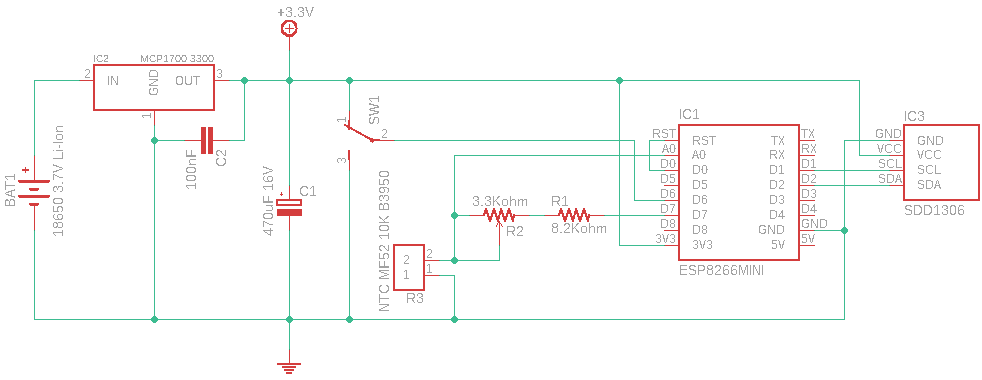
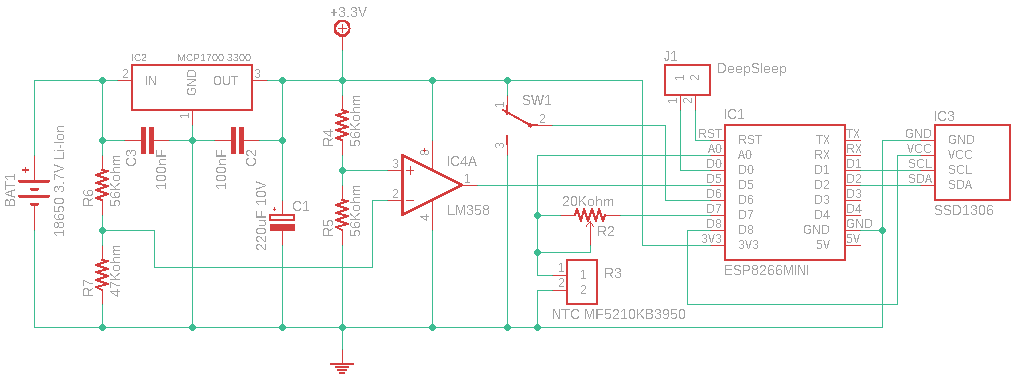
General improvements and fixes in the code; low-battery level notification added; documentation improved

diff --git a/TemperatureMonitor-Sample.h b/TemperatureMonitor-Sample.h
@@ -2,7 +2,7 @@
  * @package Temperature Monitor
  * Configuration sample
  * @author WizLab.it
- * @version 20240113.006
+ * @version 20240125.012
  */
 
 
@@ -10,13 +10,10 @@
  * Generic behaviour
  */
 
-//If debug is active, the sensor name is set to DEBUG_1 or DEBUG_2, and logs are sent to the Serial Monitor
+//If debug is active, logs are sent to the Serial Monitor and the Sensor ID is set using the debug names
 #define DEBUG true
 
-//Use built-in led to inform about events:
-// 2 blinks: connection to WiFi network faled
-// 5 blinks: connection to WiFi network succeeded
-// 10 blinks: sersor data posted online successfully
+//Use built-in led to identify some events
 #define LED_ACTIVE true
 
 //Use OLED display
@@ -25,23 +22,34 @@
 //Seconds between samples
 #define SLEEP_DURATION 10
 
-//If true, go to deep sleep (extremely low current) between samples
+//If true, goes to deep sleep (extremely low current) between samples
 //To use deep sleep, D0 and RST pins on ESP8266 must be connected
 #define USE_DEEP_SLEEP false
 
 //If true, post the sensor data online
 #define POST_TEMPERATURE_ONLINE false
 
+//Sensor data online post endpoint
+#define HTTPS_TEMP_ENDPOINT "https://www.example.com/temperaturesubmit.php"
+
 
 /*
- * Sensors
+ * Sensor
  */
+
+//NTC Sensor
+#define SENSOR_TEMP_BETA 3950.0
+#define SENSOR_TEMP_NOMINAL_OHM 10000.0
+#define SENSOR_TEMP_NOMINAL_TEMP 25.0
+#define SENSOR_TEMP_SERIES_OHM 10000.0
+
+//Device ID
 #if(DEBUG == true)
-  #define SENSOR_NAME_HIGH "TEMP_DEBUG_1"
-  #define SENSOR_NAME_LOW "TEMP_DEBUG_2"
+  #define SENSOR_ID_HIGH "TEMP_DEBUG_1"
+  #define SENSOR_ID_LOW "TEMP_DEBUG_2"
 #else
-  #define SENSOR_NAME_HIGH "TEMP_SENSOR_1"
-  #define SENSOR_NAME_LOW "TEMP_SENSOR_2"
+  #define SENSOR_ID_HIGH "TEMP_SENSOR_1"
+  #define SENSOR_ID_LOW "TEMP_SENSOR_2"
 #endif
 
 
@@ -49,22 +57,14 @@
  * WiFi networks
  */
 
-//Number of available WiFi networks: update the value when adding or removing networks in the WIFI_ACCESSPOINTS array
+//Number of available WiFi networks: update the value when adding or removing networks from the WIFI_ACCESSPOINTS array
 #define WIFI_ACCESSPOINTS_COUNT 2
 
 //Known WiFi networks
-const char *WIFI_ACCESSPOINTS[][2] = {
+const char PROGMEM *WIFI_ACCESSPOINTS[][2] = {
   { "SSID Network 1", "foobar" }, //WiFi network #1
   { "SSID Network 2", "barfoo" }, //WiFi network #2
 };
 
 //Timeout (in seconds) before to give up when trying to connect to a WiFi network
 #define WIFI_CONNECTION_TIMEOUT 15
-
-
-/*
- * HTTPS
- */
-
-//Sensor data online post endpoint
-#define HTTPS_TEMP_ENDPOINT "https://www.example.com/temperaturesubmit.php"

diff --git a/server/temperaturesubmit.php b/server/temperaturesubmit.php
@@ -2,7 +2,7 @@
 /**
  * @package Temperature Monitor
  * @author WizLab.it
- * @version 20240114.005
+ * @version 20240123.008
  */
 
 
@@ -22,7 +22,7 @@ $payloadParsed = json_decode($payload);
 if(!$payloadParsed || !is_object($payloadParsed) || !$payloadParsed->sensorId || !$payloadParsed->temperature || !is_object($payloadParsed->temperature) || !is_numeric($payloadParsed->temperature->celsius)) die("OK");
 
 //Save data
-$DBL->query("INSERT INTO temperatures SET date=NOW(), sensorId='" . dbEsc($payloadParsed->sensorId) . "', temperature='" . dbEsc($payloadParsed->temperature->celsius) . "', rawPayload='" . dbEsc($payload) . "'");
+$DBL->query("INSERT INTO temperatures SET date=NOW(), sensorId='" . dbEsc($payloadParsed->sensorId) . "', temperature='" . dbEsc($payloadParsed->temperature->celsius) . "', lowBattery='" . (($payloadParsed->lowbattery) ? "1" : "0") . "', rawPayload='" . dbEsc($payload) . "'");
 
 //Check if to send alert
 if(SENSORS[$payloadParsed->sensorId]["alert"]) {

diff --git a/server/index.php b/server/index.php
@@ -2,7 +2,7 @@
 /**
  * @package Temperature Monitor
  * @author WizLab.it
- * @version 20240114.017
+ * @version 20240123.018
  */
 
 
@@ -36,7 +36,8 @@ echo("<html>
 /*--- Builf charts --------------------------------------------------------*/
 $sensorsLabel = $sensorColor = $sensorValuesCounter = [];
 foreach(SENSORS as $sId=>$sParams) {
-  $sensorsLabel[] = "'" . $sParams["name"] . "'";
+  $isLowBattery = $DBL->query("SELECT lowBattery FROM temperatures WHERE sensorId='" . dbEsc($sId) . "' ORDER BY date DESC LIMIT 1")->fetch_object();
+  $sensorsLabel[] = "'" . $sParams["name"] . (($isLowBattery->lowBattery) ? " (low battery)" : "") . "'";
   $sensorsColor[] = "'#" . $sParams["color"] . "'";
   $sensorValuesCounter[$sId] = 0;
 }

diff --git a/server/config-sample.php b/server/config-sample.php
@@ -3,7 +3,21 @@
  * @package Temperature Monitor
  * Configuration sample
  * @author WizLab.it
- * @version 20240114.002
+ * @version 20240126.003
+ */
+
+/*
+ * Database structure
+ *
+ * CREATE TABLE `temperatures` (
+ *   `id` int(10) UNSIGNED AUTO_INCREMENT PRIMARY KEY NOT NULL,
+ *   `date` datetime NOT NULL,
+ *   `sensorId` varchar(30) NOT NULL,
+ *   `temperature` decimal(5,2) NOT NULL,
+ *   `lowBattery` tinyint(1) NOT NULL,
+ *   `rawPayload` text NOT NULL
+ * ) ENGINE=InnoDB DEFAULT CHARSET=utf8mb4;
+ *
  */
 
 //Database configuration

diff --git a/README.md b/README.md
@@ -1,49 +1,112 @@
 # Temperature Monitor
 
-This device can be used to monitor the environmental temperature, and optionally post the values online for remote monitoring or show them on a OLED display in real time.
+The device can be used to monitor the environmental temperature, and optionally post the values online for remote monitoring and/or show them on a OLED display in real time.
 
-The circuit is based on the ESP8266 board (Arduino like), that handles the temperature sampling (A/D conversion), network communication via WiFi, and drives the OLED display.
+The circuit is based on an NTC temperature sensor and the ESP8266 board (Arduino like), that handles the temperature sampling (via A/D conversion), network communication via WiFi, and drives the OLED display.
 
-Server side code (PHP) is also provided, to receive the data from the board and show it in a chart.
-
-The device supports:
-
-- multiple WiFi networks: it loops among them trying to connect to any of them
-
-- a trimmer is used for fine tuning
-
-- two sensor IDs supported (selected via a switch)
-
-- optional alerts can be sent via Telegram when the temperature rises above or falls below the allowed range (when online data post is enabled)
+The server-side code (PHP) is also provided, to receive the data from the board and show it in a chart (via Google charts).
 
 The device is battery powered (18650 Li-ion 3.7V battery), but can be powered via any standard 5V USB battery charger, just connecting it to the ESP8266 board.
 
 
 
-### Credits
+## Main features
 
-WizLab.it
+- Multiple WiFi networks support: it loops through all of them, connecting to the first available
+
+- Fine tuning via trimmer
+
+- Two-plus-two sensor IDs supported, selectable via switch (2 channels for normal mode, 2 channels for debug)
+
+- Optional alerts via Telegram when the temperature rises above or falls below the defined range (when online data post is enabled)
+
+- Low-battery level detection (notification shown online on the chart or on the OLED display)
 
 
 
-### References
+## Configuration
 
-WizLab.it: https://www.wizlab.it/
+A sample configuration file is provided (*TemperatureMonitor-Sample.h*): it must be renamed as *TemperatureMonitor.h* and parameters changed based on the needs.
 
-GitHub: https://github.com/wizlab-it/temperature-monitor/
+| Parameter | Description |
+| --------- | ----------- |
+| **SENSOR_TEMP_BETA** | NTC sensor beta value |
+| **SENSOR_TEMP_NOMINAL_OHM** | NTC sensor nominal value |
+| **SENSOR_TEMP_NOMINAL_TEMP** | NTC sensor nominal temperature |
+| **SENSOR_TEMP_SERIES_OHM** | value of the resistor in series with the NTC sensor |
+| **DEBUG** | if true, debug data is sent over the Serial Monitor. Sensor ID is set with debug IDs. Set to false when in production |
+| **LED_ACTIVE** | if true, the build-in ESP8266 led is used to inform about events (2 blinks: connection to WiFi network failed; 5 blinks: connection to WiFi network succeeded; 10 blinks: sersor data posted online). Set to false to save battery |
+| **OLED_ACTIVE** | if true, the OLED display is used. OLED display could not be installed on the device. Set to false if OLED display is not installed or don't want to be used |
+| **SLEEP_DURATION** | how long to sleep between samples (in seconds) |
+| **USE_DEEP_SLEEP** | if true, deep-sleep (extremely low current) is used. To use deep-sleep, the ESP8266 **D0** and **RST** pins must be connected. If false, a normal delay is used |
+| **POST_TEMPERATURE_ONLINE** | if true, temperature is posted online |
+| **HTTPS_TEMP_ENDPOINT** | endpoint where to post temperatures |
+| **SENSOR_ID_HIGH** | ID of the sensor when **D6** pin is HIGH |
+| **SENSOR_ID_LOW** | ID of the sensor when **D6** pin is LOW |
+| **WIFI_ACCESSPOINTS_COUNT** | number of configured Access Points (must match the number of WIFI_ACCESSPOINTS elements) |
+| **WIFI_ACCESSPOINTS** *(array)* | list of Access Points |
+| **WIFI_CONNECTION_TIMEOUT** | timeount (in seconds) after which to give up when trying to connect to a WiFi network |
 
 
 
-### License
+### Configuration notes
 
-This program is free software: you can redistribute it and/or modify
-it under the terms of the GNU General Public License as published by
-the Free Software Foundation, either version 3 of the License, or
-(at your option) any later version.
+- **Sensor ID**: 2 + 2 IDs (2 in normal mode and 2 in debug mode - so up to 4 different temperature lines) can be shown on the online chart. The sensor ID can be customized, and selected via high/low level on **D6**. Sendor IDs in the ESP8266 code must match those configured in server-side code.
 
-This program is distributed in the hope that it will be useful,
-but WITHOUT ANY WARRANTY; without even the implied warranty of
-MERCHANTABILITY or FITNESS FOR A PARTICULAR PURPOSE. See the
-GNU General Public License for more details.
+- **Deep-Sleep**: the device can be put in deep-sleep status to save battery. When in deep-sleep, the current usage is extremely low and battery can last weeks or months.
+To wake up from deep-sleep, the ESP8266 **D0** and **RST** pins must be connected (J1).
+When flashing the firmware on the ESP8266 module, D0 and RST pin **MUST NOT** be connect, or the code upload will fail.
 
-To get a copy of the GNU General Public License, see [http://www.gnu.org/licenses/](http://www.gnu.org/licenses/).
+
+
+## Temperature monitor sections
+
+
+#### OLED display
+
+The device can use an SSD1306 128x32 pixels OLED display.
+
+When present, the OLED is used to show the temperature, the Wi-Fi status (icon) and the low-battery (icon) notification.
+
+
+#### Low-battery detection
+
+Low battery detection is achieved via R4-R5, R6-R7 and IC4-A.
+
+R4-R5 voltage divider halves the 3.3V power supplies (always constant, via the MCP1700-3300 LDO voltage regulator), applying about 1.65V on the non-inverting input of the IC4-A operational amplifier.
+
+R6-R7 voltage divider divides the voltage from the battery by about 2.2; this voltage is applied on the IC4-A inverting input.
+When the battery is full it provides about 4.2V, with 1.91V on the IC4-A inverting input. As soon as the battery gets discharged, the voltage on the IC4-A inverting input drops, falling below the voltage on the non-inverting input when the battery voltage is below 3.63V.
+
+When the voltage on the non-inverting input gets higher than the voltage on the inverting input, the IC4-A operational amplifier output level rises to the maximum value allowed (about 1.95V when powered with 3.3V, see LM358 specifications).
+This voltage is detected as a high logic level by the ESP8266, setting the low-battery level flag.
+
+
+#### Server-side application
+
+The server-side application needs PHP to run the code, and a MySQL/MariaDB database to store data.
+
+A sample configuration file is provided (*config-sample.php*): it must be renamed as *config.php* and parameters changed based on the needs.
+
+The database structure is included in the sample configuration file.
+
+Sensors ID, sensor description and alert levels can be customized. Sensor IDs must match those set in the ESP8266 code. If alerts are set (at least for one sensor), a Telegram bot is required to send the notification.
+Refer to [https://www.shellhacks.com/telegram-api-send-message-personal-notification-bot/](https://www.shellhacks.com/telegram-api-send-message-personal-notification-bot/) (or any other tutorial available online) for the Telegram bot creation.
+
+
+
+## Credits and references
+
+Created by [WizLab.it](https://www.wizlab.it/)
+
+GitHub: [https://github.com/wizlab-it/temperature-monitor/](https://github.com/wizlab-it/temperature-monitor/)
+
+
+
+## License
+
+This program is free software: you can redistribute it and/or modify it under the terms of the GNU General Public License as published by the Free Software Foundation, either version 3 of the License, or (at your option) any later version.
+
+This program is distributed in the hope that it will be useful, but WITHOUT ANY WARRANTY; without even the implied warranty of MERCHANTABILITY or FITNESS FOR A PARTICULAR PURPOSE. See the GNU General Public License for more details.
+
+To get a copy of the GNU General Public License, see [http://www.gnu.org/licenses/](http://www.gnu.org/licenses/)
